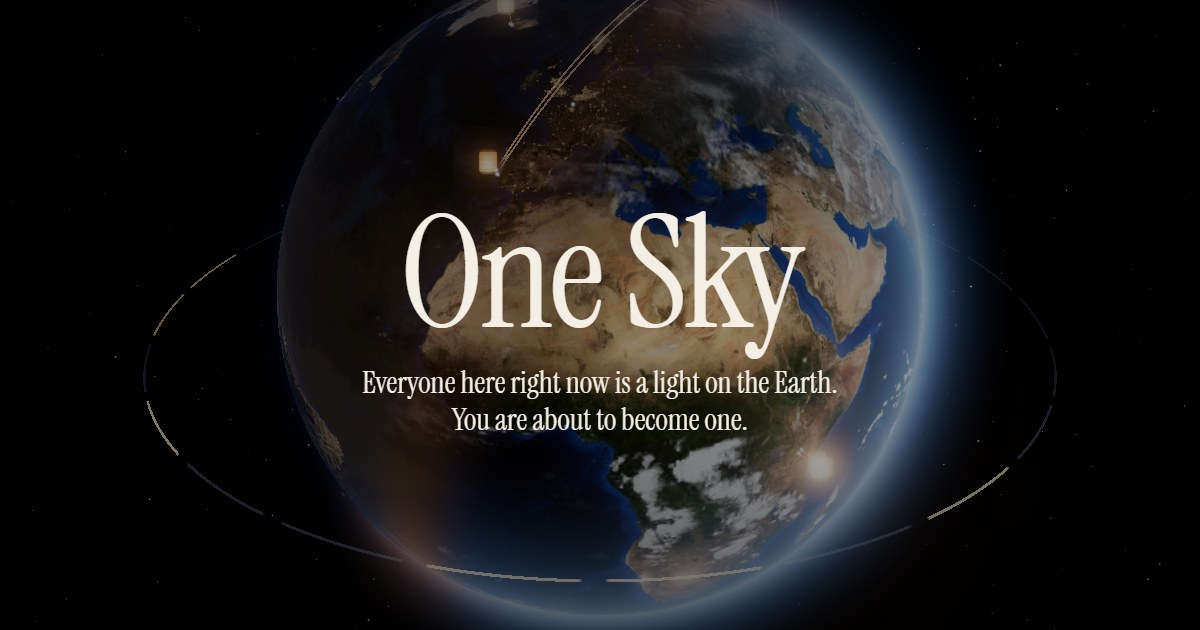
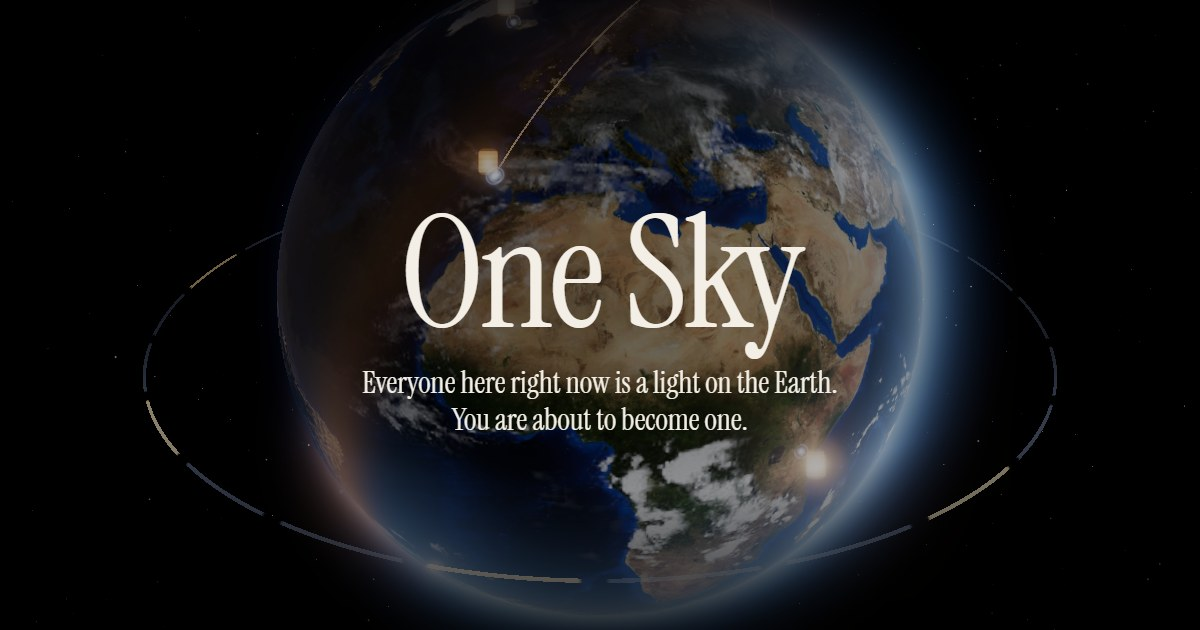
Echo waves (leave a wave for someone who has gone), layout fixes for tablet and small laptops, db tests

diff --git a/src/styles.css b/src/styles.css
@@ -427,3 +427,11 @@ body:has(.scrim) :is(.ask, .you, .world, .tools) { opacity: 0; pointer-events: n
   .you { align-items: center; row-gap: 0; }
   .toast { flex-wrap: wrap; }
 }
+
+@media (min-width: 1001px) and (max-width: 1320px) {
+  .ask { width: min(560px, calc(100vw - 740px)); min-width: 300px; }
+  .ask-q { font-size: 22px; }
+  .world { width: 300px; }
+  .stats { gap: 16px; }
+  .ask-actions { flex-wrap: wrap; }
+}
